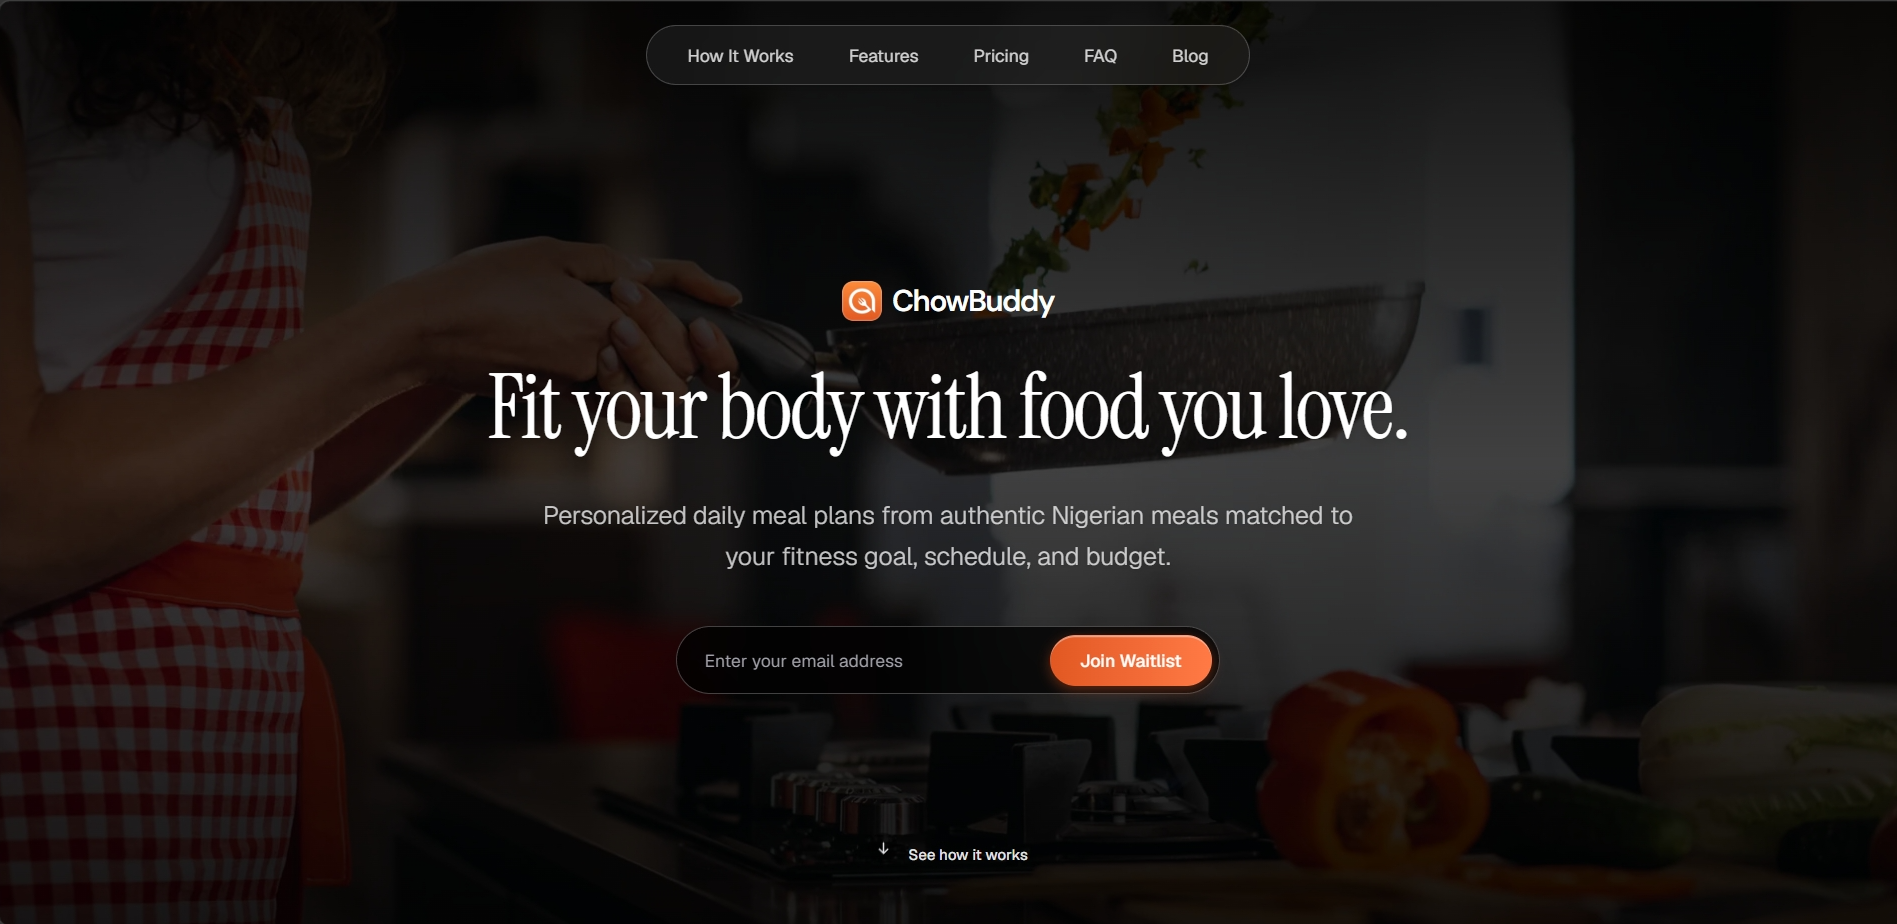
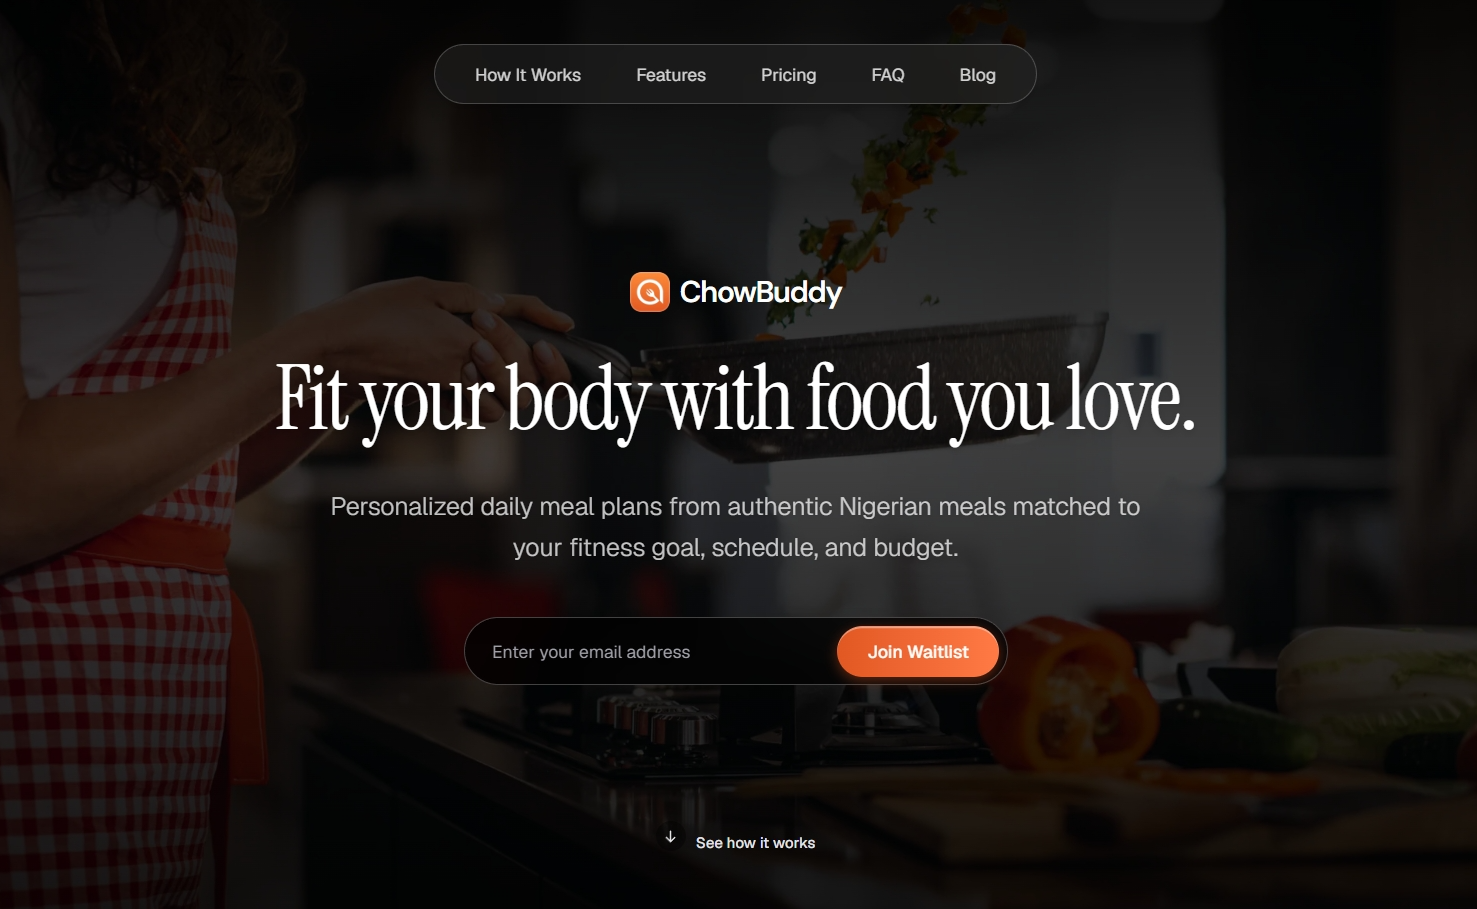
chore: add new projects and images

diff --git a/src/components/portfolio/skill-folder.tsx b/src/components/portfolio/skill-folder.tsx
@@ -66,7 +66,7 @@ export function SkillFolder({ folder, open, onToggle }: SkillFolderProps) {
             {folder.files.map((file, index) => (
               <span
                 key={file.name}
-                className={`absolute top-[8%] z-10 grid place-items-center rounded-[14px] transition-all duration-700 ease-[cubic-bezier(.2,.8,.2,1)] ${openedStackIconClasses} ${open ? "translate-y-[-125%] opacity-100" : "translate-y-0 opacity-100"}`}
+                className={`absolute top-[12%] z-10 grid place-items-center rounded-[14px] transition-all duration-700 ease-[cubic-bezier(.2,.8,.2,1)] ${openedStackIconClasses} ${open ? "translate-y-[-125%] opacity-100" : "translate-y-0 opacity-100"}`}
                 style={{
                   left: `${index * 18}%`,
                   transitionDelay: `${index * 45}ms`,
@@ -82,7 +82,7 @@ export function SkillFolder({ folder, open, onToggle }: SkillFolderProps) {
             {folder.files.map((file, index) => (
               <span
                 key={file.name}
-                className={`absolute top-[15%] z-10 flex h-[60%] w-[52%] max-[760px]:h-[70%] flex-col gap-2 rounded-xl bg-linear-to-br from-[#f2f2f1] to-white p-4 text-[#34343a] shadow-md transition-all duration-700 ease-[cubic-bezier(.2,.8,.2,1)] ${openedFileCardClasses[index]} ${open ? index === 0 ? "-translate-x-1 translate-y-[-58%] rotate-[-8deg]" : "translate-x-1 translate-y-[-58%] rotate-[8deg]" : "translate-y-[5%]"}`}
+                className={`absolute top-[15%] z-10 flex h-[48%] w-[52%] max-[760px]:h-[75%] flex-col gap-2 rounded-xl bg-linear-to-br from-[#f2f2f1] to-white p-4 text-[#34343a] shadow-md transition-all duration-700 ease-[cubic-bezier(.2,.8,.2,1)] ${openedFileCardClasses[index]} ${open ? index === 0 ? "-translate-x-1 translate-y-[-58%] rotate-[-8deg]" : "translate-x-1 translate-y-[-58%] rotate-[8deg]" : "translate-y-[5%]"}`}
                 style={{ transitionDelay: `${index * 70}ms` }}
               >
                 <strong className="text-[15px]">{file.name}</strong>

diff --git a/src/data/portfolio.ts b/src/data/portfolio.ts
@@ -25,7 +25,14 @@ export type TechnologyName =
   | "Postgresql"
   | "Node.js"
   | "Groq"
-  | "Expo";
+  | "Expo"
+  | "FastAPI"
+  | "MySql"
+  | "Sqlite"
+  | "HTML"
+  | "CSS"
+  | "Supabase"
+  | "JavaScript";
 
 export type ProjectTone = "mint" | "blue" | "sand";
 
@@ -41,7 +48,7 @@ export type Project = {
 
 export const projects: Project[] = [
   {
-    id: "onb360",
+    id: "onboard360",
     name: "Onboard360",
     type: "Full Stack development · Web app",
     description:
@@ -59,6 +66,36 @@ export const projects: Project[] = [
     tone: "sand",
     technologies: ["Expo", "TypeScript", "Tailwind CSS", "Node.js", "Postgresql", "Groq"],
     link: "https://chowbuddy.me",
+  },
+    {
+    id: "thesisflow",
+    name: "ThesisFlow",
+    type: "Independent project · Web app",
+    description:
+      "A platform for final year students to manage their thesis projects, collaborate with supervisors, and track progress.",
+    tone: "sand",
+    technologies: ["React", "TypeScript", "Tailwind CSS", "Python", "FastAPI", "Sqlite"], 
+    link: "#",
+  },
+  {
+    id: "bookr",
+    name: "Bookr",
+    type: "Independent project · Web app",
+    description:
+      "A platform for student to book rooms in their school hostels, manage bookings, and track availability.",
+    tone: "sand",
+    technologies: ["React", "Tailwind CSS", "Supabase"], 
+    link: "https://csbookr.vercel.app",
+  },
+    {
+    id: "caml",
+    name: "Caml",
+    type: "Independent project · Web app",
+    description:
+      "Landing page for a platform that allows Nigerian writers to upload their stories, and readers to discover and read them.",
+    tone: "sand",
+    technologies: ["HTML", "CSS", "JavaScript"], 
+    link: "https://csbookr.vercel.app",
   },
 ];
 

diff --git a/src/components/portfolio/project-card.tsx b/src/components/portfolio/project-card.tsx
@@ -26,7 +26,7 @@ export function ProjectCard({ project, index }: ProjectCardProps) {
         href={project.link || "#"}
         aria-label={`Replace with the ${project.name.toLowerCase()} project image`}
       >
-        <span className="rounded-xl transition-all duration-500 ease-[cubic-bezier(.2,.8,.2,1)] group-hover:scale-[1.04] group-hover:bg-black/35">
+        <span className="rounded-xl aspect-video transition-all duration-500 ease-[cubic-bezier(.2,.8,.2,1)] group-hover:scale-[1.04] group-hover:bg-black/35">
           <Image
             src={`/images/project-${project.id}.png`} 
             alt={`Project image for ${project.name}`}

diff --git a/src/components/portfolio/shared/technology-badge.tsx b/src/components/portfolio/shared/technology-badge.tsx
@@ -9,6 +9,14 @@ import {
     NodejsIcon,
     Groq,
     ExpoIcon,
+    FastapiIcon,
+    MysqlIcon,
+    SqliteIcon,
+    Html5,
+    Css3,
+    SupabaseIcon,
+    Javascript
+
 } from "@dev.icons/react";
 import { usePortfolioTheme } from "../theme";
 import type { TechnologyName } from "@/data/portfolio";
@@ -24,6 +32,13 @@ const technologyIcons = {
   "Node.js": NodejsIcon,
   Groq: Groq,
   Expo: ExpoIcon,
+  FastAPI: FastapiIcon,
+  MySql: MysqlIcon,
+  Sqlite: SqliteIcon,
+  HTML: Html5,
+  CSS: Css3,
+  Supabase: SupabaseIcon,
+  JavaScript: Javascript,
 };
 
 type TechnologyBadgeProps = {
